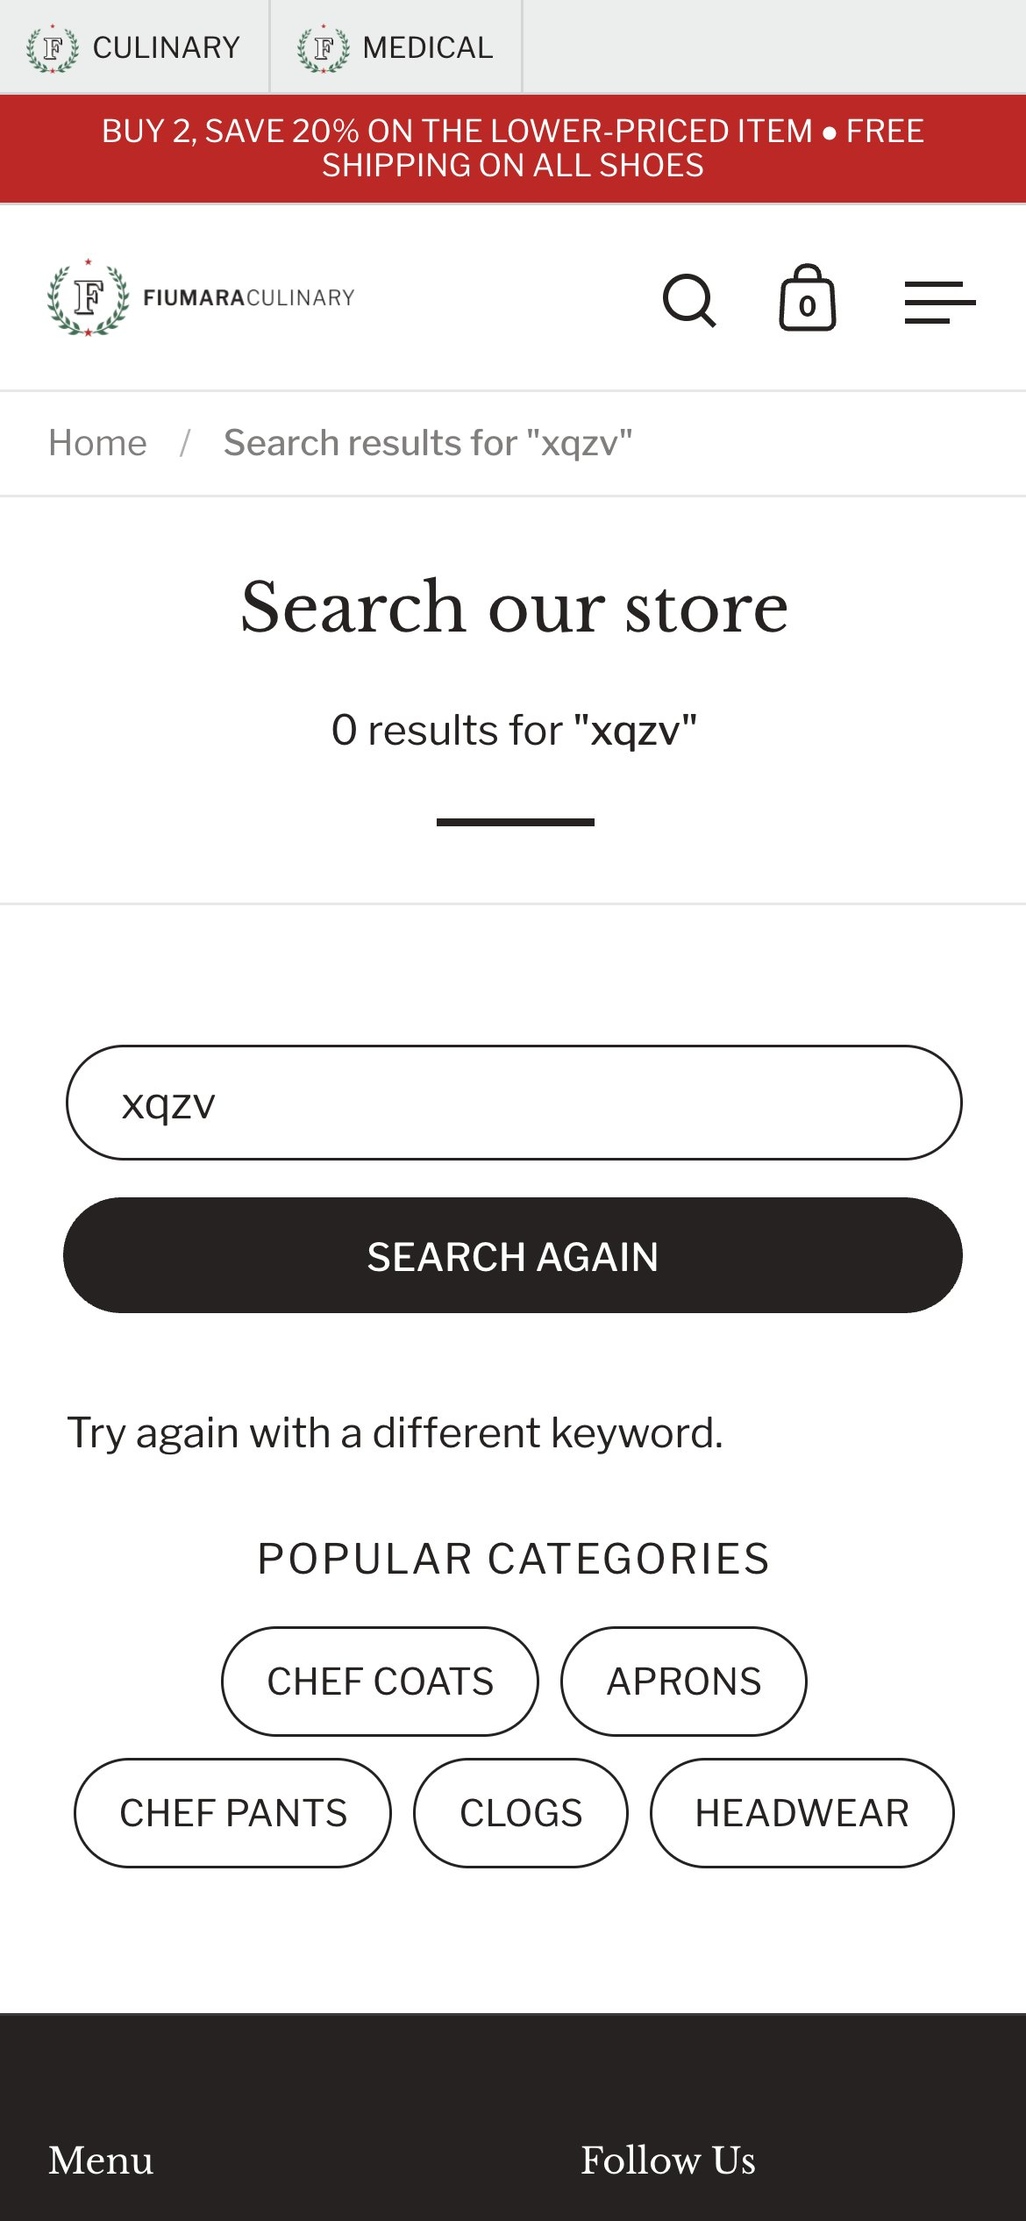
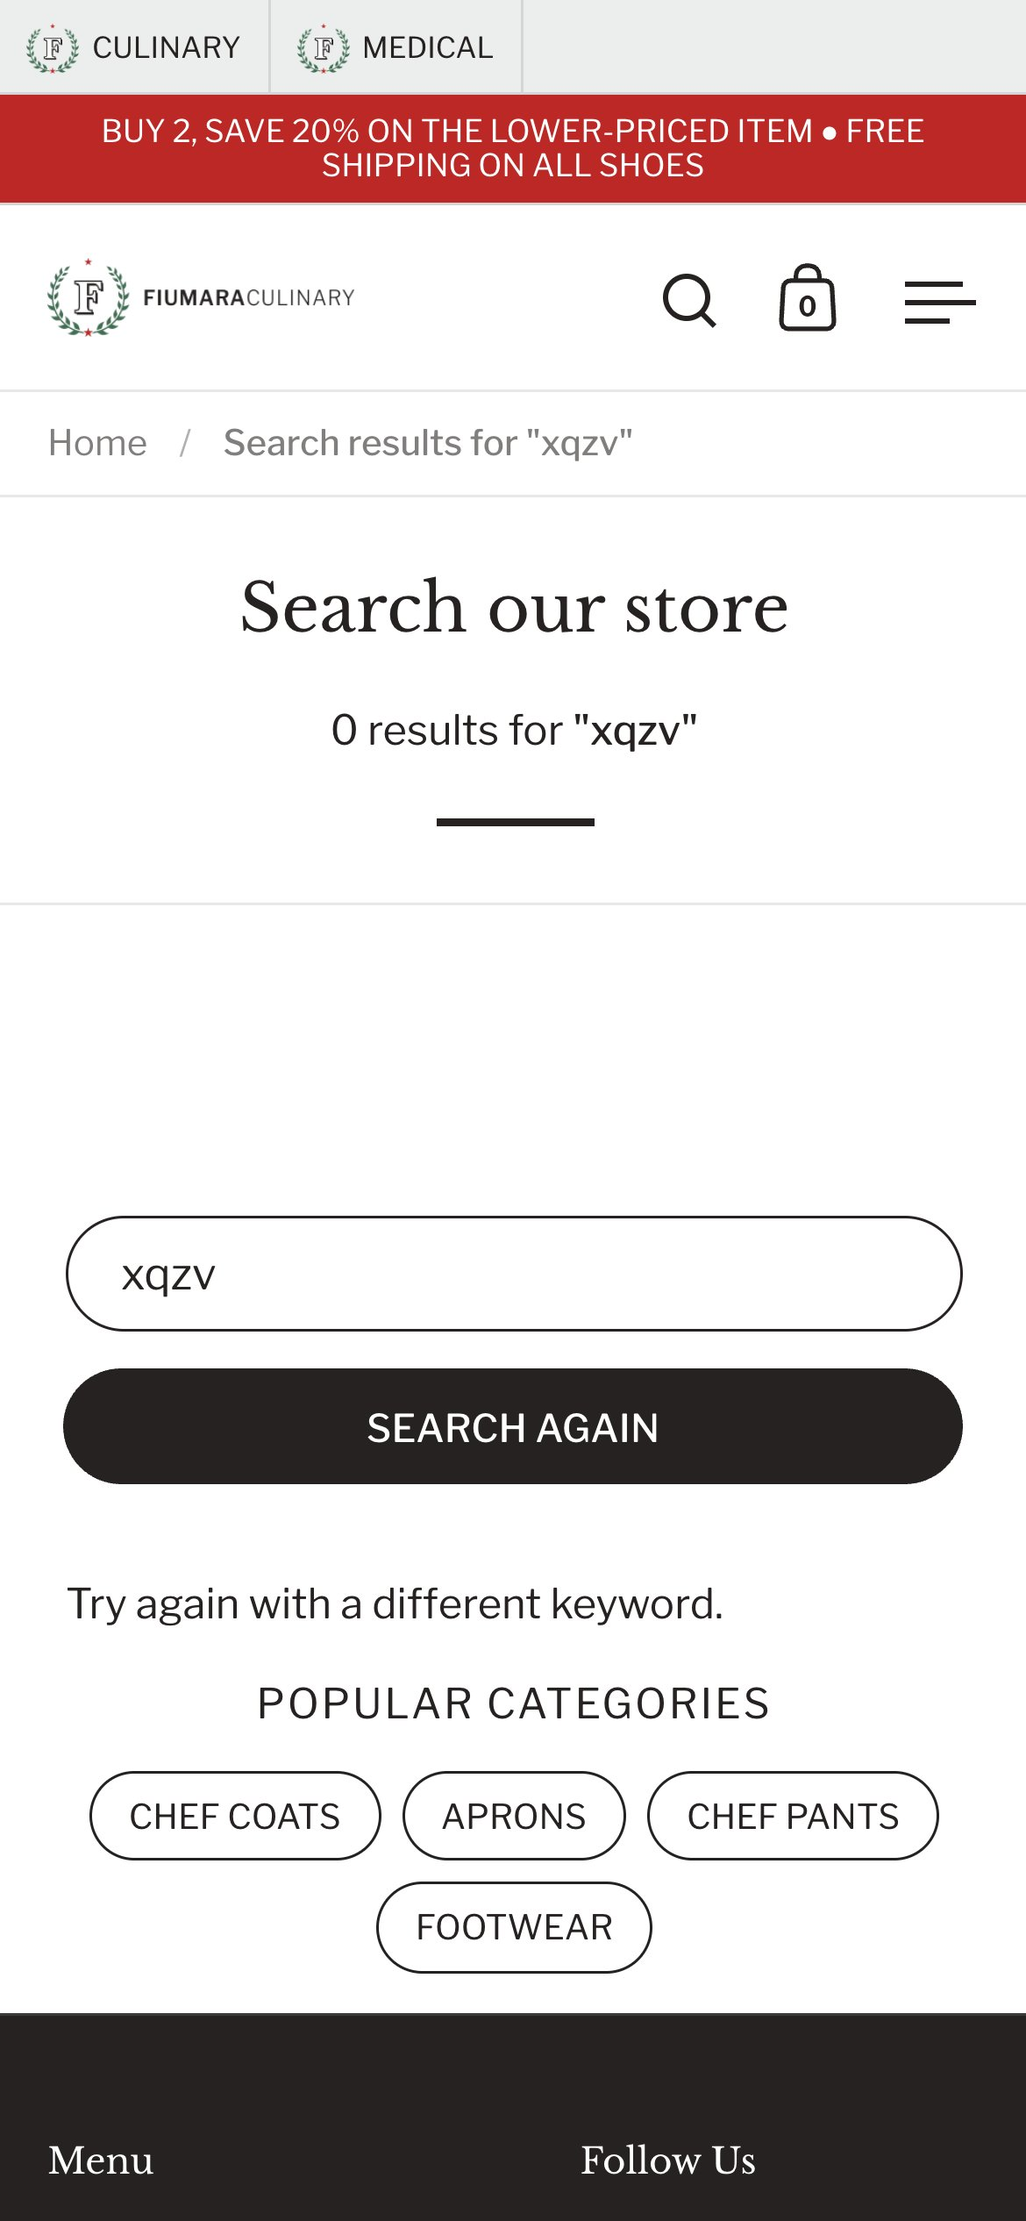
QA fixes, round 2

Changed region(s): [[0.0615, 0.468, 0.9538, 0.8736]]

diff --git a/index.html b/index.html
@@ -1183,6 +1183,7 @@ a.irow:hover b{text-decoration:underline}
 
 
 
+.view>img.shot{object-fit:cover!important;object-position:top!important}
 .dev{display:inline-block;font:700 11px/1 'Montserrat',sans-serif;letter-spacing:.08em;text-transform:uppercase;color:#6d6d6d;border:1.5px solid #cfcfcf;border-radius:2em;padding:5px 10px;margin-left:10px;vertical-align:middle}
 .comp{margin-top:10px;font-size:13px;line-height:1.45;color:#444}.comp a{color:inherit}
 .cover h1 .nm{display:block}
@@ -1196,7 +1197,7 @@ a.irow:hover b{text-decoration:underline}
 <nav class="toc"> <a href="#summary">The short version</a> <a href="#critical">3 first-wave</a><a href="#medium">4 second-wave</a><a href="#low">8 small fixes</a><a href="#extra">1 separate offer</a> <a href="#strong">What already works</a> <a href="#price">Pricing</a> </nav> </section>
 <section class="slide" id="summary"> <img class="silk sm" src="img/silk.png" alt=""> <div class="shead"><h2>The short version</h2></div>
 <p class="lead"><b>We built the current store with you</b> — homepage, header and footer, bulk orders with embroidery quotes, and the cart fixes. This audit looks at what to build next.</p><p class="lead"><b>What we noticed.</b> Coats cannot be filtered by size or brand, the same jacket is listed five times, the “Buy 2, save 20%” offer is not applied at checkout, and shipping is a surprise on the last step.</p><p class="lead"><b>What we propose.</b> 15 changes, each on one screen — today on the left, after on the right.</p>
-<div class="kpis" style="margin-top:34px"><div class="kpi"><b>3</b><span>First wave</span></div><div class="kpi"><b>4</b><span>Second wave</span></div><div class="kpi"><b>8</b><span>Small fixes</span></div><div class="kpi"><b>1</b><span>Separate offers</span></div></div> </section>
+<div class="kpis" style="margin-top:34px"><div class="kpi"><b>3</b><span>First wave</span></div><div class="kpi"><b>4</b><span>Second wave</span></div><div class="kpi"><b>8</b><span>Small fixes</span></div><div class="kpi"><b>1</b><span>Separate offer</span></div></div> </section>
 <section class="slide divider" id="critical"> <img class="silk" src="img/silk.png" alt=""> <span class="sev crit">First wave</span> <h2>3 changes that help chefs find and buy their uniform</h2> </section>
 <section class="slide" id="p-filter"> <img class="silk sm" src="img/silk.png" alt="">
 <div class="shead"><span class="num">01</span><h2><span class="sev crit">First wave</span>97 chef coats, and the filter offers only stock and price</h2></div>
@@ -1265,7 +1266,7 @@ a.irow:hover b{text-decoration:underline}
 <div class="txt t1"><div class="lbl"><span class="pill">Today</span><svg class="conn" viewBox="0 0 54 12"><path d="M0 6h50M45 1.5 50 6l-5 4.5" fill="none" stroke="#6d6d6d" stroke-width="1.5"/></svg></div><p>When a search finds nothing, the page shows “0 results”, the search box and one line: “Try again with a different keyword.” There are no categories or products to continue with.</p><p class="fine-note">Checked live on the U.S. store, iPhone (390×844), 9 Oct 2026. · <a href="https://fiumaraculinary.com/search?q=xqzv&type=product" target="_blank" rel="noopener">open the page ↗</a></p></div>
 <div class="v1"><div><div class="phone"><div class="screen"><div class="island"></div><div class="sbar"><span>9:41</span><svg viewBox="0 0 24 11"><rect x=".5" y=".5" width="20" height="10" rx="3" fill="none" stroke="#111"/><rect x="2" y="2" width="16" height="7" rx="1.5" fill="#111"/><rect x="21.5" y="3.5" width="1.8" height="4" rx=".9" fill="#111"/></svg></div><div class="view"><img class="shot" src="img/now-search-empty.jpg" alt=""></div><div class="url"><span>fiumaraculinary.com</span></div></div></div><div class="cap">Today — 0 results and no way on</div></div></div>
 <div class="txt t2"><div class="lbl"><span class="pill">We propose</span><svg class="conn" viewBox="0 0 54 12"><path d="M0 6h50M45 1.5 50 6l-5 4.5" fill="none" stroke="#6d6d6d" stroke-width="1.5"/></svg></div><p>Add your main categories under the message, so a shopper with a typo still has a next step.</p><p>On the right: the same page with popular categories.</p></div>
-<div class="v2"><div><div class="phone"><div class="screen"><div class="island"></div><div class="sbar"><span>9:41</span><svg viewBox="0 0 24 11"><rect x=".5" y=".5" width="20" height="10" rx="3" fill="none" stroke="#111"/><rect x="2" y="2" width="16" height="7" rx="1.5" fill="#111"/><rect x="21.5" y="3.5" width="1.8" height="4" rx=".9" fill="#111"/></svg></div><div class="view"><img class="shot" src="img/fix-search-empty.jpg" alt=""></div><div class="url"><span>fiumaraculinary.com</span></div></div></div><div class="cap">The same page with five category links</div></div></div>
+<div class="v2"><div><div class="phone"><div class="screen"><div class="island"></div><div class="sbar"><span>9:41</span><svg viewBox="0 0 24 11"><rect x=".5" y=".5" width="20" height="10" rx="3" fill="none" stroke="#111"/><rect x="2" y="2" width="16" height="7" rx="1.5" fill="#111"/><rect x="21.5" y="3.5" width="1.8" height="4" rx=".9" fill="#111"/></svg></div><div class="view"><img class="shot" src="img/fix-search-empty.jpg" alt=""></div><div class="url"><span>fiumaraculinary.com</span></div></div></div><div class="cap">The same page with four category links</div></div></div>
 <div class="cardcol"><div class="benefit-top"><span class="pill">Why it pays</span><span class="arrow"><svg width="14" height="16" viewBox="0 0 14 16"><path d="M7 1v13M1.5 8.5 7 14l5.5-5.5" fill="none" stroke="#444" stroke-width="1.6"/></svg></span></div>
 <div class="card"><p>Shoppers who search already know what they want; one tap back to the right category keeps them in the store.</p><div class="stats"><div><b>0</b><span>links on the empty-results page</span></div><div><b>8</b><span>categories in your menu</span></div></div></div><div class="ptag"><span>Price</span><b>$30</b><em>1.5 h &#183; $20/h</em></div></div>
 </div></section>
@@ -1274,9 +1275,9 @@ a.irow:hover b{text-decoration:underline}
 <div class="shead"><span class="num">08</span><h2><span class="sev low">Small fix</span>The second announcement shows the theme's sample text</h2></div>
 <div class="pbody">
 <div class="txt t1"><div class="lbl"><span class="pill">Today</span><svg class="conn" viewBox="0 0 54 12"><path d="M0 6h50M45 1.5 50 6l-5 4.5" fill="none" stroke="#6d6d6d" stroke-width="1.5"/></svg></div><p>The announcement bar has two messages. When a shopper taps the arrow, the second one reads “Write an important announcement here” — the sample text that comes with the theme.</p><p class="fine-note">Checked live on the U.S. store, iPhone (390×844), 9 Oct 2026. · <a href="https://fiumaraculinary.com/" target="_blank" rel="noopener">open the page ↗</a></p></div>
-<div class="v1"><div><div class="phone"><div class="screen"><div class="island"></div><div class="sbar"><span>9:41</span><svg viewBox="0 0 24 11"><rect x=".5" y=".5" width="20" height="10" rx="3" fill="none" stroke="#111"/><rect x="2" y="2" width="16" height="7" rx="1.5" fill="#111"/><rect x="21.5" y="3.5" width="1.8" height="4" rx=".9" fill="#111"/></svg></div><div class="view"><img class="shot" src="img/now-home-ann.jpg" alt=""></div><div class="url"><span>fiumaraculinary.com</span></div></div></div><div class="cap">Today — after a tap on the arrow</div></div></div>
+<div class="v1"><div><div class="phone"><div class="screen"><div class="island"></div><div class="sbar"><span>9:41</span><svg viewBox="0 0 24 11"><rect x=".5" y=".5" width="20" height="10" rx="3" fill="none" stroke="#111"/><rect x="2" y="2" width="16" height="7" rx="1.5" fill="#111"/><rect x="21.5" y="3.5" width="1.8" height="4" rx=".9" fill="#111"/></svg></div><div class="view"><img class="shot" src="img/now-ann.jpg" alt=""></div><div class="url"><span>fiumaraculinary.com</span></div></div></div><div class="cap">Today — after a tap on the arrow</div></div></div>
 <div class="txt t2"><div class="lbl"><span class="pill">We propose</span><svg class="conn" viewBox="0 0 54 12"><path d="M0 6h50M45 1.5 50 6l-5 4.5" fill="none" stroke="#6d6d6d" stroke-width="1.5"/></svg></div><p>Replace it with a real message, for example your embroidery quote in 48–72 hours. The header is part of our build, so this fix is included.</p><p>On the right: the same bar with the embroidery message.</p></div>
-<div class="v2"><div><div class="phone"><div class="screen"><div class="island"></div><div class="sbar"><span>9:41</span><svg viewBox="0 0 24 11"><rect x=".5" y=".5" width="20" height="10" rx="3" fill="none" stroke="#111"/><rect x="2" y="2" width="16" height="7" rx="1.5" fill="#111"/><rect x="21.5" y="3.5" width="1.8" height="4" rx=".9" fill="#111"/></svg></div><div class="view"><img class="shot" src="img/fix-home-ann.jpg" alt=""></div><div class="url"><span>fiumaraculinary.com</span></div></div></div><div class="cap">The same bar with a real message</div></div></div>
+<div class="v2"><div><div class="phone"><div class="screen"><div class="island"></div><div class="sbar"><span>9:41</span><svg viewBox="0 0 24 11"><rect x=".5" y=".5" width="20" height="10" rx="3" fill="none" stroke="#111"/><rect x="2" y="2" width="16" height="7" rx="1.5" fill="#111"/><rect x="21.5" y="3.5" width="1.8" height="4" rx=".9" fill="#111"/></svg></div><div class="view"><img class="shot" src="img/fix-ann.jpg" alt=""></div><div class="url"><span>fiumaraculinary.com</span></div></div></div><div class="cap">The same bar with a real message</div></div></div>
 <div class="cardcol"><div class="benefit-top"><span class="pill">Why it pays</span><span class="arrow"><svg width="14" height="16" viewBox="0 0 14 16"><path d="M7 1v13M1.5 8.5 7 14l5.5-5.5" fill="none" stroke="#444" stroke-width="1.6"/></svg></span></div>
 <div class="card"><p>The bar is on every page; one honest line about embroidery also points chefs to a service that sets you apart.</p><div class="stats"><div><b>2</b><span>messages in the bar, one of them sample text</span></div><div><b>48–72 h</b><span>embroidery quote time, from your page</span></div></div><p class="comp">Like at <a href="https://happychef.com/signature-v2-lightweight-chef-coat.html?color=1793" target="_blank" rel="noopener">Happy Chef ↗</a> — the top bar carries one live offer — free shipping on orders over $95 — on every page.</p></div><div class="ptag"><span>Price</span><b>Included</b><em>part of our build &#183; $0</em></div></div>
 </div></section>
@@ -1288,14 +1289,14 @@ a.irow:hover b{text-decoration:underline}
 <div class="txt t2"><div class="lbl"><span class="pill">We propose</span><svg class="conn" viewBox="0 0 54 12"><path d="M0 6h50M45 1.5 50 6l-5 4.5" fill="none" stroke="#6d6d6d" stroke-width="1.5"/></svg></div><p>Add swatch images for the patterned colors, starting with Houndstooth.</p><p>On the right: the same page with the fabric in the swatch.</p></div>
 <div class="v2"><div><div class="phone"><div class="screen"><div class="island"></div><div class="sbar"><span>9:41</span><svg viewBox="0 0 24 11"><rect x=".5" y=".5" width="20" height="10" rx="3" fill="none" stroke="#111"/><rect x="2" y="2" width="16" height="7" rx="1.5" fill="#111"/><rect x="21.5" y="3.5" width="1.8" height="4" rx=".9" fill="#111"/></svg></div><div class="view"><img class="shot" src="img/fix-swatch.jpg" alt=""></div><div class="url"><span>fiumaraculinary.com</span></div></div></div><div class="cap">The same swatch with the fabric</div></div></div>
 <div class="cardcol"><div class="benefit-top"><span class="pill">Why it pays</span><span class="arrow"><svg width="14" height="16" viewBox="0 0 14 16"><path d="M7 1v13M1.5 8.5 7 14l5.5-5.5" fill="none" stroke="#444" stroke-width="1.6"/></svg></span></div>
-<div class="card"><p>A pattern is the one color a shopper cannot guess from its name; the swatch should show it.</p><div class="stats"><div><b>1</b><span>color on this product, shown blank</span></div><div><b>4</b><span>swatch images already made for plain colors</span></div></div><p class="comp">Like at <a href="https://happychef.com/signature-v2-lightweight-chef-coat.html?color=1793" target="_blank" rel="noopener">Happy Chef ↗</a> — every color circle shows the real fabric.</p></div><div class="ptag"><span>Price</span><b>$20</b><em>1 h &#183; $20/h</em></div></div>
+<div class="card"><p>A pattern is the one color a shopper cannot guess from its name; the swatch should show it.</p><div class="stats"><div><b>1</b><span>color on this product, shown blank</span></div><div><b>4</b><span>swatch images already made for plain colors</span></div></div><p class="comp">Like at <a href="https://happychef.com/signature-v2-lightweight-chef-coat.html?color=1793" target="_blank" rel="noopener">Happy Chef ↗</a> — every color circle is a photo of the coat in that color.</p></div><div class="ptag"><span>Price</span><b>$20</b><em>1 h &#183; $20/h</em></div></div>
 </div></section>
 <section class="slide" id="p-sizeadd"> <img class="silk sm" src="img/silk.png" alt="">
 <div class="shead"><span class="num">10</span><h2><span class="sev low">Small fix</span>Size buttons squeeze the surcharge into three lines: “2XL (Add $4)”</h2></div>
 <div class="pbody">
 <div class="txt t1"><div class="lbl"><span class="pill">Today</span><svg class="conn" viewBox="0 0 54 12"><path d="M0 6h50M45 1.5 50 6l-5 4.5" fill="none" stroke="#6d6d6d" stroke-width="1.5"/></svg></div><p>On 33 products the extra cost for large sizes is written inside the size name. On the Essential Vest the 2XL, 3XL and 4XL buttons break into three lines of small text next to one-line XS–XL.</p><p class="fine-note">Checked live on the U.S. store, iPhone (390×844), 9 Oct 2026. · <a href="https://fiumaraculinary.com/products/chef-works-unisex-black-basic-vest" target="_blank" rel="noopener">open the page ↗</a></p></div>
 <div class="v1"><div><div class="phone"><div class="screen"><div class="island"></div><div class="sbar"><span>9:41</span><svg viewBox="0 0 24 11"><rect x=".5" y=".5" width="20" height="10" rx="3" fill="none" stroke="#111"/><rect x="2" y="2" width="16" height="7" rx="1.5" fill="#111"/><rect x="21.5" y="3.5" width="1.8" height="4" rx=".9" fill="#111"/></svg></div><div class="view"><img class="shot" src="img/now-sizeadd.jpg" alt=""></div><div class="url"><span>fiumaraculinary.com</span></div></div></div><div class="cap">Today — “(Add $4)” inside the buttons</div></div></div>
-<div class="txt t2"><div class="lbl"><span class="pill">We propose</span><svg class="conn" viewBox="0 0 54 12"><path d="M0 6h50M45 1.5 50 6l-5 4.5" fill="none" stroke="#6d6d6d" stroke-width="1.5"/></svg></div><p>Keep the size short and show the surcharge as a small “+$4” under it.</p><p>On the right: the same buttons with “+$4”.</p></div>
+<div class="txt t2"><div class="lbl"><span class="pill">We propose</span><svg class="conn" viewBox="0 0 54 12"><path d="M0 6h50M45 1.5 50 6l-5 4.5" fill="none" stroke="#6d6d6d" stroke-width="1.5"/></svg></div><p>Keep the size short and show the surcharge as a small “+$4” next to it.</p><p>On the right: the same buttons with “+$4”.</p></div>
 <div class="v2"><div><div class="phone"><div class="screen"><div class="island"></div><div class="sbar"><span>9:41</span><svg viewBox="0 0 24 11"><rect x=".5" y=".5" width="20" height="10" rx="3" fill="none" stroke="#111"/><rect x="2" y="2" width="16" height="7" rx="1.5" fill="#111"/><rect x="21.5" y="3.5" width="1.8" height="4" rx=".9" fill="#111"/></svg></div><div class="view"><img class="shot" src="img/fix-sizeadd.jpg" alt=""></div><div class="url"><span>fiumaraculinary.com</span></div></div></div><div class="cap">The same sizes with a short surcharge</div></div></div>
 <div class="cardcol"><div class="benefit-top"><span class="pill">Why it pays</span><span class="arrow"><svg width="14" height="16" viewBox="0 0 14 16"><path d="M7 1v13M1.5 8.5 7 14l5.5-5.5" fill="none" stroke="#444" stroke-width="1.6"/></svg></span></div>
 <div class="card"><p>The size is read at a glance and the extra cost is still clear before Add to cart.</p><div class="stats"><div><b>33</b><span>products with “(Add $…)” in a size name</span></div><div><b>+$4</b><span>surcharge for 2XL–4XL on this vest</span></div></div><p class="comp">Like at <a href="https://www.bragardusa.com/greg-chef-coat-br132171" target="_blank" rel="noopener">Bragard USA ↗</a> — large sizes carry a small “+$3” badge next to the size.</p></div><div class="ptag"><span>Price</span><b>$40</b><em>2 h &#183; $20/h</em></div></div>
@@ -1356,8 +1357,8 @@ a.irow:hover b{text-decoration:underline}
 <div class="pbody">
 <div class="txt t1"><div class="lbl"><span class="pill">Today</span><svg class="conn" viewBox="0 0 54 12"><path d="M0 6h50M45 1.5 50 6l-5 4.5" fill="none" stroke="#6d6d6d" stroke-width="1.5"/></svg></div><p>Your News page has 33 pages of articles about chef workwear, partners and events. The latest one was published on October 1, 2025.</p><p class="fine-note">Checked live on the U.S. store, iPhone (390×844), 9 Oct 2026. · <a href="https://fiumaraculinary.com/blogs/news" target="_blank" rel="noopener">open the page ↗</a></p></div>
 <div class="v1"><div><div class="phone"><div class="screen"><div class="island"></div><div class="sbar"><span>9:41</span><svg viewBox="0 0 24 11"><rect x=".5" y=".5" width="20" height="10" rx="3" fill="none" stroke="#111"/><rect x="2" y="2" width="16" height="7" rx="1.5" fill="#111"/><rect x="21.5" y="3.5" width="1.8" height="4" rx=".9" fill="#111"/></svg></div><div class="view"><img class="shot" src="img/now-blog.jpg" alt=""></div><div class="url"><span>fiumaraculinary.com</span></div></div></div><div class="cap">Today — the latest article, Oct 2025</div></div></div>
-<div class="txt t2"><div class="lbl"><span class="pill">We propose</span><svg class="conn" viewBox="0 0 54 12"><path d="M0 6h50M45 1.5 50 6l-5 4.5" fill="none" stroke="#6d6d6d" stroke-width="1.5"/></svg></div><p>We set up blog posting for your store: one new article a day on chef workwear topics, saved as drafts for your approval or published automatically.</p><p>On the right: the same page with a new article on top.</p></div>
-<div class="v2"><div><div class="phone"><div class="screen"><div class="island"></div><div class="sbar"><span>9:41</span><svg viewBox="0 0 24 11"><rect x=".5" y=".5" width="20" height="10" rx="3" fill="none" stroke="#111"/><rect x="2" y="2" width="16" height="7" rx="1.5" fill="#111"/><rect x="21.5" y="3.5" width="1.8" height="4" rx=".9" fill="#111"/></svg></div><div class="view"><img class="shot" src="img/fix-blog.jpg" alt=""></div><div class="url"><span>fiumaraculinary.com</span></div></div></div><div class="cap">The same page with this week's article</div></div></div>
+<div class="txt t2"><div class="lbl"><span class="pill">We propose</span><svg class="conn" viewBox="0 0 54 12"><path d="M0 6h50M45 1.5 50 6l-5 4.5" fill="none" stroke="#6d6d6d" stroke-width="1.5"/></svg></div><p>We set up blog posting for your store: one new article a day on chef workwear topics, saved as drafts for your approval or published automatically.</p><p>On the right: the same page with this week's article first.</p></div>
+<div class="v2"><div><div class="phone"><div class="screen"><div class="island"></div><div class="sbar"><span>9:41</span><svg viewBox="0 0 24 11"><rect x=".5" y=".5" width="20" height="10" rx="3" fill="none" stroke="#111"/><rect x="2" y="2" width="16" height="7" rx="1.5" fill="#111"/><rect x="21.5" y="3.5" width="1.8" height="4" rx=".9" fill="#111"/></svg></div><div class="view"><img class="shot" src="img/fix-blog.jpg" alt=""></div><div class="url"><span>fiumaraculinary.com</span></div></div></div><div class="cap">The same page with this week's article first</div></div></div>
 <div class="cardcol"><div class="benefit-top"><span class="pill">Why it pays</span><span class="arrow"><svg width="14" height="16" viewBox="0 0 14 16"><path d="M7 1v13M1.5 8.5 7 14l5.5-5.5" fill="none" stroke="#444" stroke-width="1.6"/></svg></span></div>
 <div class="card"><p>Each article is one more page that answers a chef's question and links to the coats, aprons and clogs you sell.</p><div class="stats"><div><b>365</b><span>articles in the first year</span></div><div><b>$1,110</b><span>first year, about $3 per article</span></div></div></div><div class="ptag"><span>Price</span><b>$750 + $30/mo</b><em>setup + monthly, 365 articles a year</em></div></div>
 </div></section>
